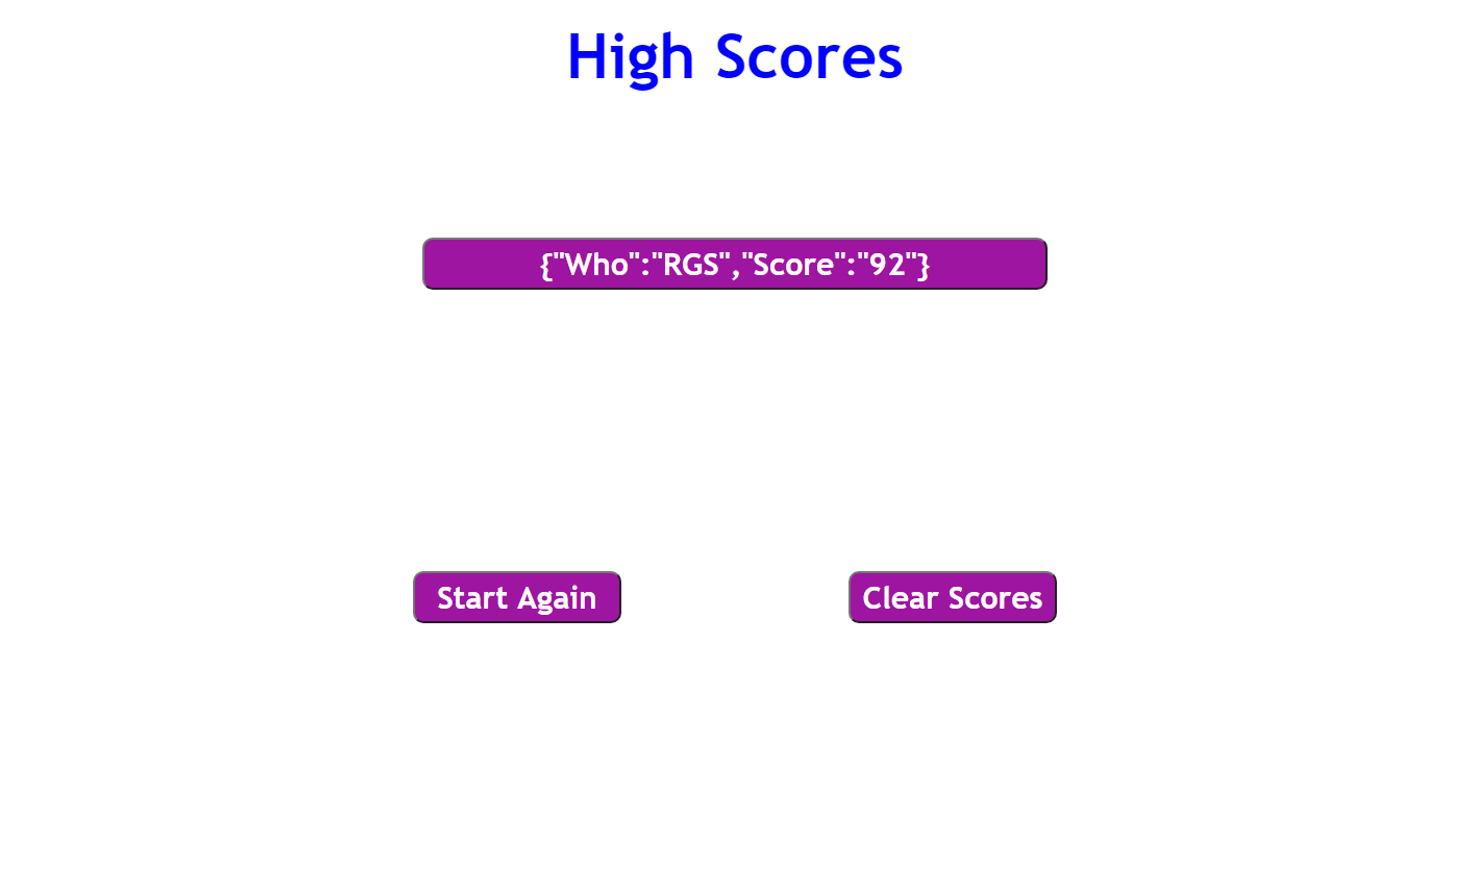
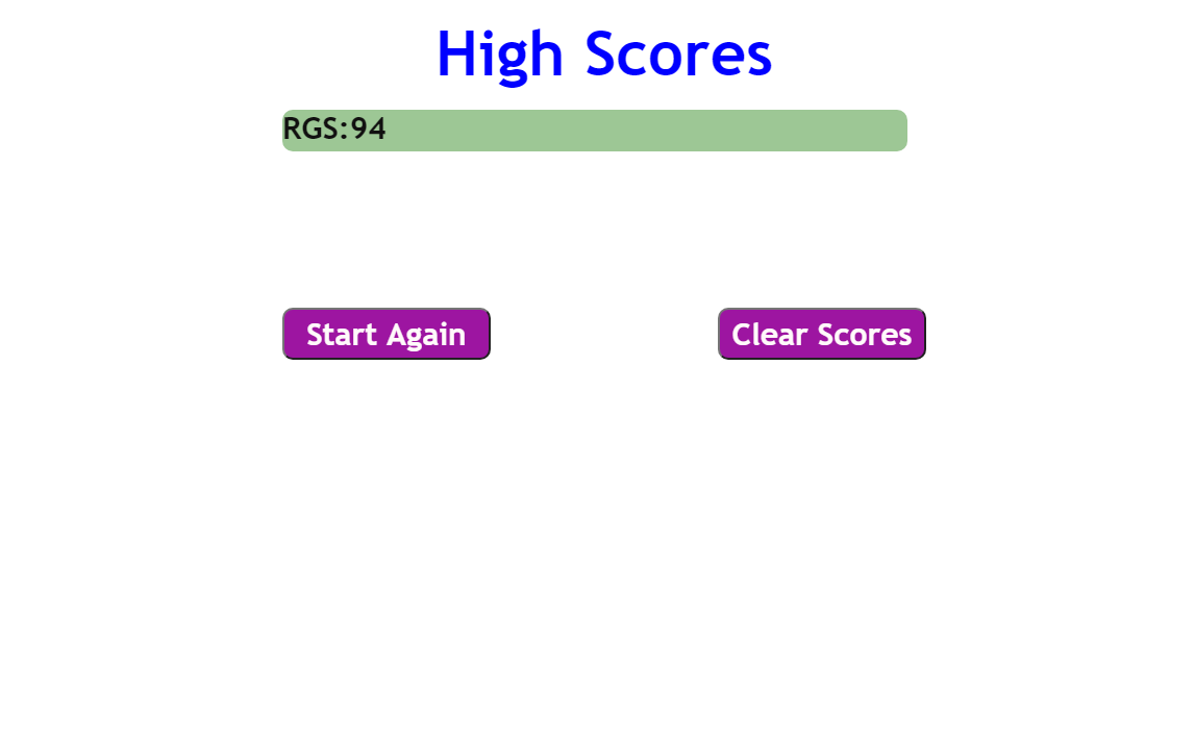
updated scores.html

diff --git a/scores.html b/scores.html
@@ -19,9 +19,8 @@
   <body>
 
   <div class = "title">High Scores
-    <div id =score-container>
-    <div class = "intro">
-      <button id=score class="score-btn">Score</button>
+    <div id =score-container class = "score-list">
+     
     </div>
   <!-- <div class = "controls"> -->
  <button id="startAgn" class="start-btn">Start Again</button>
@@ -45,18 +44,18 @@ var highScores = {
 
 //RENDER CURRENT SCORE
 function renderScore(){
-  // document.getElementById ("score").innerText=(JSON.stringify(highScores));
+
 var hsString = JSON.stringify(highScores);
-console.log(hsString);
-// if (hsString = null) {
-//   document.getElementById("score").innerHTML= "";
-// } else{
-document.getElementById("score").innerHTML= hsString;
+var node = document.createElement("ul");
+var textnode = document.createTextNode(lsInitials +":" + lsCurrentScore);
+
+document.getElementById("score-container").innerText = lsInitials +":" + lsCurrentScore;
+//ADD NEXT SCORE
+node.appendChild(textnode);
+
 
 }
 renderScore()
-
-//ADD HIGH SCORE TO ARRAY
 
 
 
@@ -74,7 +73,7 @@ clearButtonEl.addEventListener('click', clearScore);
 
 function clearScore(){
   localStorage.clear();
-  document.getElementById("score").innerHTML= "";
+  document.getElementById("score-container").innerHTML= "";
 
 }
 </script>  

diff --git a/style.css b/style.css
@@ -122,15 +122,16 @@ body {
     border-radius: 10px;
 
     }
-.score-btn {
+.score-list {
     font-size: 30px;
     font-weight: 600;
-    color: snow;
-    margin: 130px 100px;
-    padding: 5px;
+    text-align: left;
+    color: rgb(17, 16, 16);
+    margin: 20px 100px;
+    padding: 0px 0px;
     width: 600px;
-    height: 50px;
-    background-color: rgb(157, 21, 161);
+    height: 40px;
+    background-color: rgb(157, 199, 149);
     border-radius: 10px;
     
 }
